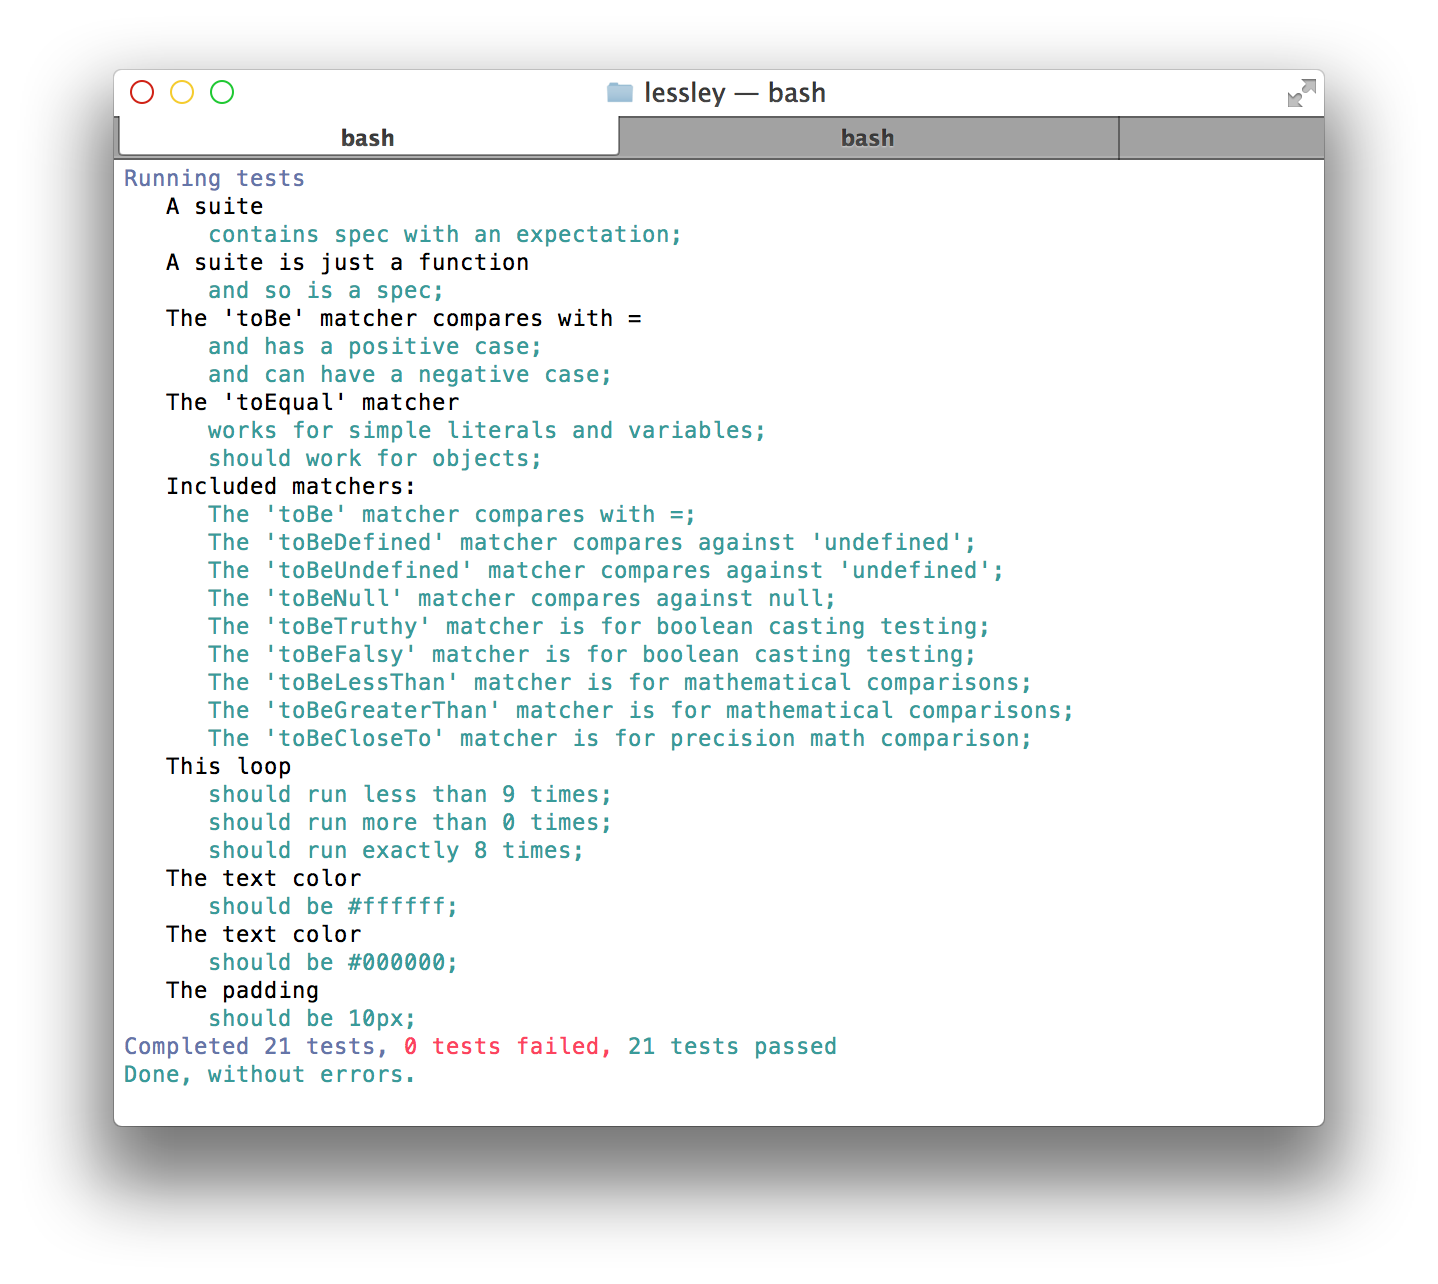
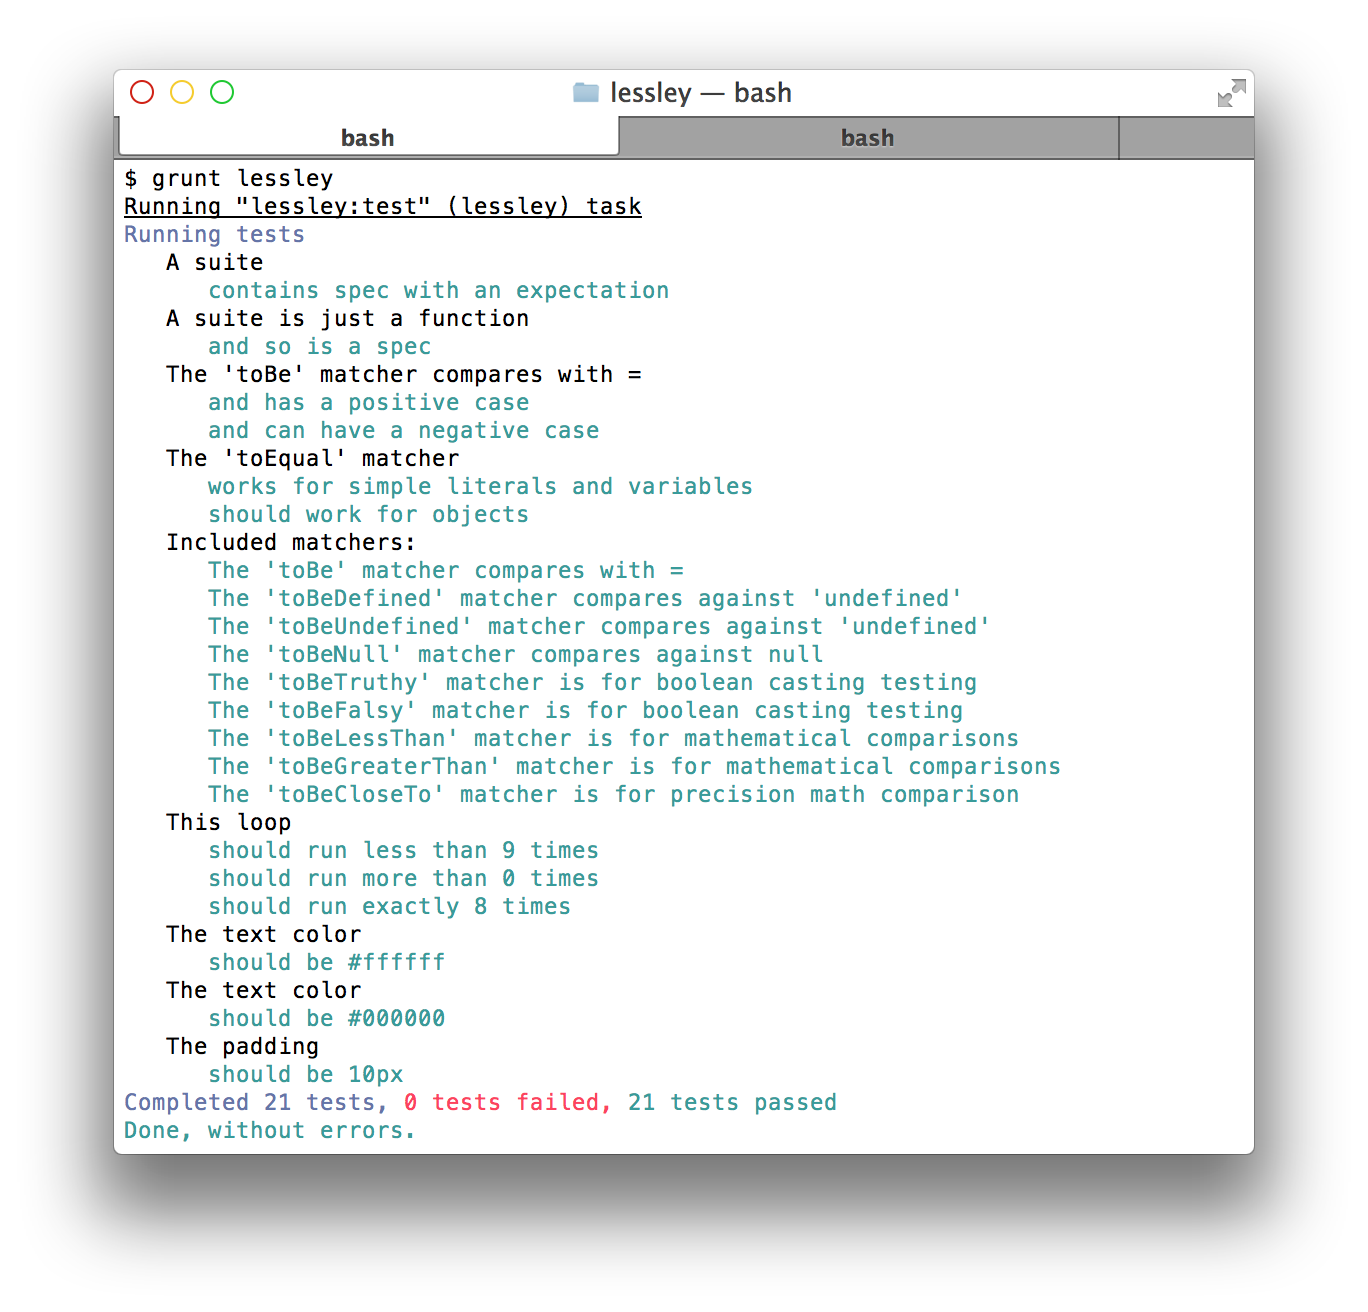
output style (remove ';')

Changed region(s): [[0.0614, 0.0623, 0.9211, 0.8723]]

diff --git a/tasks/lessley.js b/tasks/lessley.js
@@ -57,7 +57,7 @@ module.exports = function (grunt) {
             test = tests[i].toString()
               .replace(/\/\*+.*/ig, '')
               .replace('@test ', '')
-              .replace(/\*/ig, '')
+              .replace(/\;/ig, '')
               .replace(/\*/ig, '')
               .replace(/\{/ig, '')
               .replace(/\}/ig, '');
